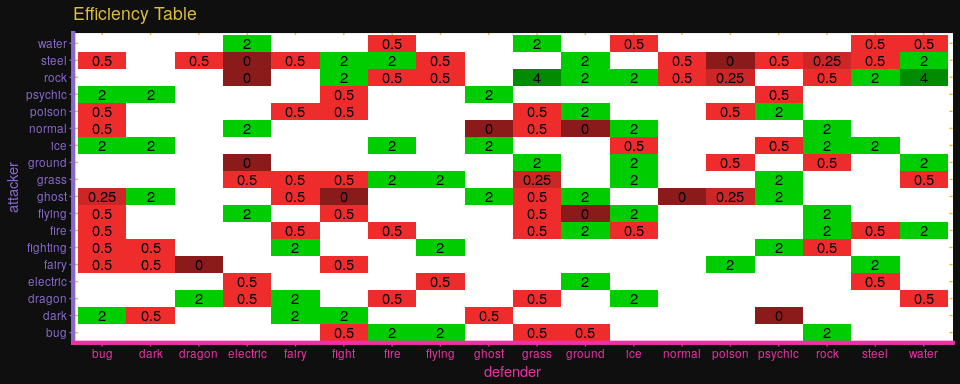
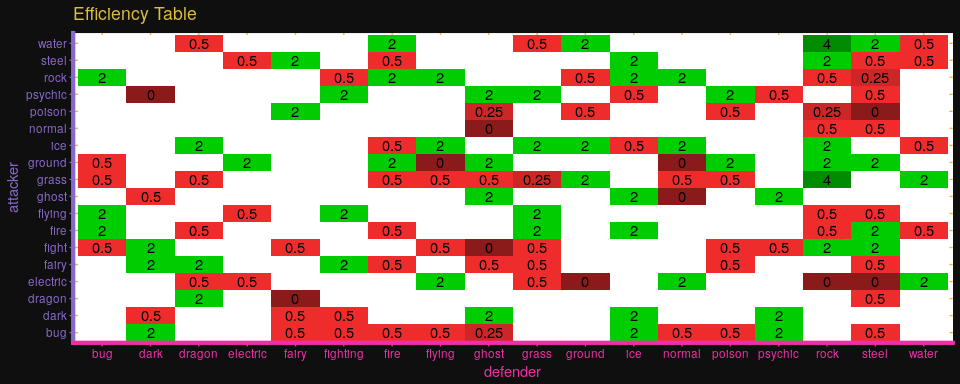
fixed mix up of attacker/defender

diff --git a/README.md b/README.md
@@ -62,9 +62,9 @@ Using `theme_rocket()` to create an efficiency table
 ``` r
 pokemon %>%
   distinct(type1,.keep_all=TRUE) %>%
-  select(attacker = type1,against_bug:against_water) %>%
-  gather(defender,effect,against_bug:against_water) %>%
-  mutate(defender = str_replace_all(defender,"against_",""))  %>%
+  select(defender = type1,against_bug:against_water) %>%
+  gather(attacker,effect,against_bug:against_water) %>%
+  mutate(attacker = str_replace_all(attacker,"against_",""))  %>%
   ggplot(aes(y=attacker,x=defender,fill=factor(effect)))+
   geom_tile()+
   geom_text(aes(label=ifelse(effect!=1,effect,"")))+
